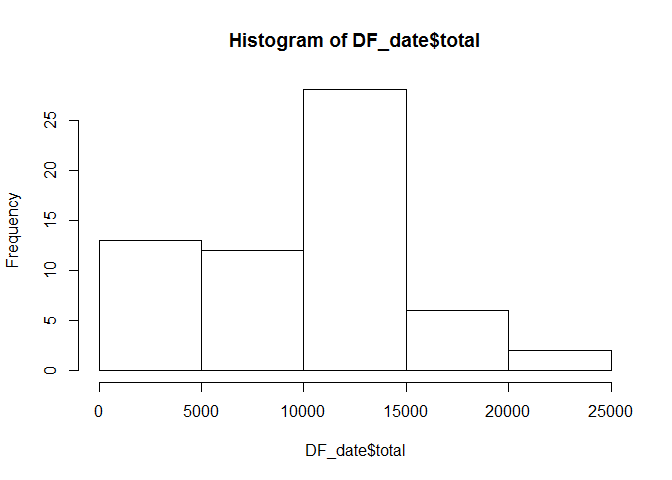
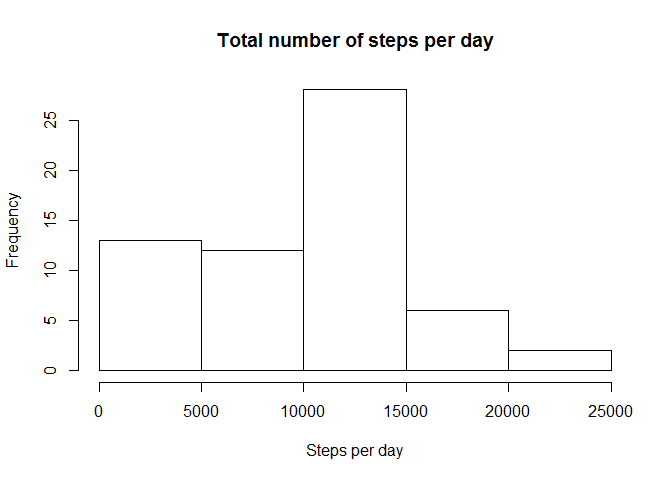
Refinement of assignment
Some changes to layout and extra comments

Changed region(s): [[0.3125, 0.0625, 0.75, 0.125], [0.4375, 0.9062, 0.625, 0.9688]]

diff --git a/PA1_template.html b/PA1_template.html
@@ -66,57 +66,71 @@ img {
 
 <div id="loading-and-preprocessing-the-data" class="section level2">
 <h2>Loading and preprocessing the data</h2>
-<pre class="r"><code>DF &lt;- read.table(unz(&quot;activity.zip&quot;, &quot;activity.csv&quot;), header=T, sep= &quot;,&quot;)
+<pre class="r"><code>library(dplyr)
+DF &lt;- read.table(unz(&quot;activity.zip&quot;, &quot;activity.csv&quot;), header=T, sep= &quot;,&quot;)
 DF$date &lt;- as.Date(as.character(DF$date),&quot;%Y-%m-%d&quot;)</code></pre>
 </div>
 <div id="what-is-mean-total-number-of-steps-taken-per-day" class="section level2">
 <h2>What is mean total number of steps taken per day?</h2>
-<pre class="r"><code>library(dplyr)</code></pre>
-<pre><code>## 
-## Attaching package: 'dplyr'</code></pre>
-<pre><code>## The following objects are masked from 'package:stats':
-## 
-##     filter, lag</code></pre>
-<pre><code>## The following objects are masked from 'package:base':
-## 
-##     intersect, setdiff, setequal, union</code></pre>
 <pre class="r"><code>DF_date &lt;- summarize(group_by(DF,date),total = sum(steps,na.rm = T))
-hist(DF_date$total)</code></pre>
[1 lines of base64/hex data omitted]
+hist(DF_date$total,main = &quot;Total number of steps per day&quot;, xlab = &quot;Steps per day&quot;)</code></pre>
[1 lines of base64/hex data omitted]
+<div id="mean-of-total-steps-taken-per-day" class="section level3">
+<h3>Mean of total steps taken per day</h3>
 <pre class="r"><code>mean(DF_date$total,na.rm = T)</code></pre>
 <pre><code>## [1] 9354.23</code></pre>
+</div>
+<div id="median-of-total-steps-taken-per-day" class="section level3">
+<h3>Median of total steps taken per day</h3>
 <pre class="r"><code>median(DF_date$total,na.rm = T)</code></pre>
 <pre><code>## [1] 10395</code></pre>
 </div>
+</div>
 <div id="what-is-the-average-daily-activity-pattern" class="section level2">
 <h2>What is the average daily activity pattern?</h2>
-<pre class="r"><code>library(dplyr)
-DF_interval &lt;- summarize(group_by(DF,interval),mean = mean(steps,na.rm = T))
-plot(DF_interval$interval,DF_interval$mean,type=&quot;l&quot;)</code></pre>
[1 lines of base64/hex data omitted]
-<pre class="r"><code>Max_steps_interval &lt;- as.character(DF_interval[which.max(DF_interval$mean),1])</code></pre>
+<pre class="r"><code>  DF_interval &lt;- summarize(group_by(DF,interval),mean = mean(steps,na.rm = T))
+  plot(DF_interval$interval,DF_interval$mean,type=&quot;l&quot;,xlab = &quot;5-minute interval&quot;, 
+       ylab = &quot;Average number of steps&quot;, main = &quot;Average number of steps by 5-minute interval&quot;)</code></pre>
[1 lines of base64/hex data omitted]
+<div id="minute-interval-whith-on-average-highest-total-number-of-steps-taken" class="section level3">
+<h3>5 minute interval whith on average highest total number of steps taken</h3>
+<pre class="r"><code>  as.character(DF_interval[which.max(DF_interval$mean),1])</code></pre>
+<pre><code>## [1] &quot;835&quot;</code></pre>
+</div>
 </div>
 <div id="imputing-missing-values" class="section level2">
 <h2>Imputing missing values</h2>
-<pre class="r"><code>library(dplyr)
-sum(is.na(DF$steps))</code></pre>
+<div id="total-number-of-missing-values" class="section level3">
+<h3>Total number of missing values</h3>
+<pre class="r"><code>sum(is.na(DF$steps))</code></pre>
 <pre><code>## [1] 2304</code></pre>
+</div>
+<div id="filling-all-the-missing-values-with-the-average-of-that-interval" class="section level3">
+<h3>filling all the missing values with the average of that interval</h3>
 <pre class="r"><code>DF_new &lt;- merge(DF,DF_interval,by=&quot;interval&quot;)
 DF_new$steps &lt;- ifelse(is.na(DF_new$steps),DF_new$mean,DF_new$steps)
-DF_new &lt;- DF_new[,1:3]
-
-DF_new_date &lt;- summarize(group_by(DF_new,date),total = sum(steps,na.rm = T))
-hist(DF_new_date$total)</code></pre>
[1 lines of base64/hex data omitted]
+DF_new &lt;- DF_new[,1:3]</code></pre>
+</div>
+<div id="what-is-mean-total-number-of-steps-taken-per-day-with-filled-missing-values" class="section level3">
+<h3>What is mean total number of steps taken per day with filled missing values?</h3>
+<pre class="r"><code>DF_new_date &lt;- summarize(group_by(DF_new,date),total = sum(steps,na.rm = T))
+hist(DF_new_date$total,main = &quot;Total number of steps per day&quot;, xlab = &quot;Steps per day&quot;)</code></pre>
[1 lines of base64/hex data omitted]
+</div>
+<div id="mean-of-total-steps-taken-per-day-with-filled-missing-values" class="section level3">
+<h3>Mean of total steps taken per day with filled missing values</h3>
 <pre class="r"><code>mean(DF_new_date$total)</code></pre>
 <pre><code>## [1] 10766.19</code></pre>
+</div>
+<div id="median-of-total-steps-taken-per-day-with-filled-missing-values" class="section level3">
+<h3>median of total steps taken per day with filled missing values</h3>
 <pre class="r"><code>median(DF_new_date$total)</code></pre>
 <pre><code>## [1] 10766.19</code></pre>
+</div>
 </div>
 <div id="are-there-differences-in-activity-patterns-between-weekdays-and-weekends" class="section level2">
 <h2>Are there differences in activity patterns between weekdays and weekends?</h2>
 <pre class="r"><code>library(ggplot2)
-library(dplyr)
 weekdays &lt;- c('Monday', 'Tuesday', 'Wednesday', 'Thursday', 'Friday')
 DF_new$DayOfTheWeek &lt;- factor((weekdays(DF_new$date) %in% weekdays), 
                    levels=c(FALSE, TRUE), labels=c('weekend', 'weekday'))

diff --git a/PA1_template.md b/PA1_template.md
@@ -1,9 +1,11 @@
 # Reproducible Research: Peer Assessment 1
 
 
+
 ## Loading and preprocessing the data
 
 ```r
+library(dplyr)
 DF <- read.table(unz("activity.zip", "activity.csv"), header=T, sep= ",")
 DF$date <- as.Date(as.character(DF$date),"%Y-%m-%d")
 ```
@@ -11,33 +13,16 @@ DF$date <- as.Date(as.character(DF$date),"%Y-%m-%d")
 
 ## What is mean total number of steps taken per day?
 
-```r
-library(dplyr)
-```
-
-```
-## 
-## Attaching package: 'dplyr'
-```
-
-```
-## The following objects are masked from 'package:stats':
-## 
-##     filter, lag
-```
-
-```
-## The following objects are masked from 'package:base':
-## 
-##     intersect, setdiff, setequal, union
-```
 
 ```r
 DF_date <- summarize(group_by(DF,date),total = sum(steps,na.rm = T))
-hist(DF_date$total)
+hist(DF_date$total,main = "Total number of steps per day", xlab = "Steps per day")
 ```
 
 ![](PA1_template_files/figure-html/unnamed-chunk-2-1.png)\
+
+
+### Mean of total steps taken per day
 
 ```r
 mean(DF_date$total,na.rm = T)
@@ -46,6 +31,8 @@ mean(DF_date$total,na.rm = T)
 ```
 ## [1] 9354.23
 ```
+
+### Median of total steps taken per day
 
 ```r
 median(DF_date$total,na.rm = T)
@@ -59,21 +46,28 @@ median(DF_date$total,na.rm = T)
 ## What is the average daily activity pattern?
 
 ```r
-library(dplyr)
-DF_interval <- summarize(group_by(DF,interval),mean = mean(steps,na.rm = T))
-plot(DF_interval$interval,DF_interval$mean,type="l")
+  DF_interval <- summarize(group_by(DF,interval),mean = mean(steps,na.rm = T))
+  plot(DF_interval$interval,DF_interval$mean,type="l",xlab = "5-minute interval", 
+       ylab = "Average number of steps", main = "Average number of steps by 5-minute interval")
 ```
 
-![](PA1_template_files/figure-html/unnamed-chunk-3-1.png)\
+![](PA1_template_files/figure-html/unnamed-chunk-5-1.png)\
+
+
+### 5 minute interval whith on average highest total number of steps taken 
 
 ```r
-Max_steps_interval <- as.character(DF_interval[which.max(DF_interval$mean),1])
+  as.character(DF_interval[which.max(DF_interval$mean),1])
+```
+
+```
+## [1] "835"
 ```
 
 ## Imputing missing values
+### Total number of missing values
 
 ```r
-library(dplyr)
 sum(is.na(DF$steps))
 ```
 
@@ -81,16 +75,25 @@ sum(is.na(DF$steps))
 ## [1] 2304
 ```
 
+### filling all the missing values with the average of that interval
+
 ```r
 DF_new <- merge(DF,DF_interval,by="interval")
 DF_new$steps <- ifelse(is.na(DF_new$steps),DF_new$mean,DF_new$steps)
 DF_new <- DF_new[,1:3]
-
-DF_new_date <- summarize(group_by(DF_new,date),total = sum(steps,na.rm = T))
-hist(DF_new_date$total)
 ```
 
-![](PA1_template_files/figure-html/unnamed-chunk-4-1.png)\
+### What is mean total number of steps taken per day with filled missing values?
+
+```r
+DF_new_date <- summarize(group_by(DF_new,date),total = sum(steps,na.rm = T))
+hist(DF_new_date$total,main = "Total number of steps per day", xlab = "Steps per day")
+```
+
+![](PA1_template_files/figure-html/unnamed-chunk-9-1.png)\
+
+
+### Mean of total steps taken per day with filled missing values
 
 ```r
 mean(DF_new_date$total)
@@ -99,6 +102,8 @@ mean(DF_new_date$total)
 ```
 ## [1] 10766.19
 ```
+
+### median of total steps taken per day with filled missing values
 
 ```r
 median(DF_new_date$total)
@@ -112,7 +117,6 @@ median(DF_new_date$total)
 
 ```r
 library(ggplot2)
-library(dplyr)
 weekdays <- c('Monday', 'Tuesday', 'Wednesday', 'Thursday', 'Friday')
 DF_new$DayOfTheWeek <- factor((weekdays(DF_new$date) %in% weekdays), 
                    levels=c(FALSE, TRUE), labels=c('weekend', 'weekday'))
@@ -120,4 +124,4 @@ DF_new_interval <- summarize(group_by(DF_new,interval,DayOfTheWeek),mean = mean(
 ggplot(DF_new_interval,aes(interval,mean))+geom_line()+facet_grid(DayOfTheWeek ~ .)
 ```
 
-![](PA1_template_files/figure-html/unnamed-chunk-5-1.png)\
+![](PA1_template_files/figure-html/unnamed-chunk-12-1.png)\
